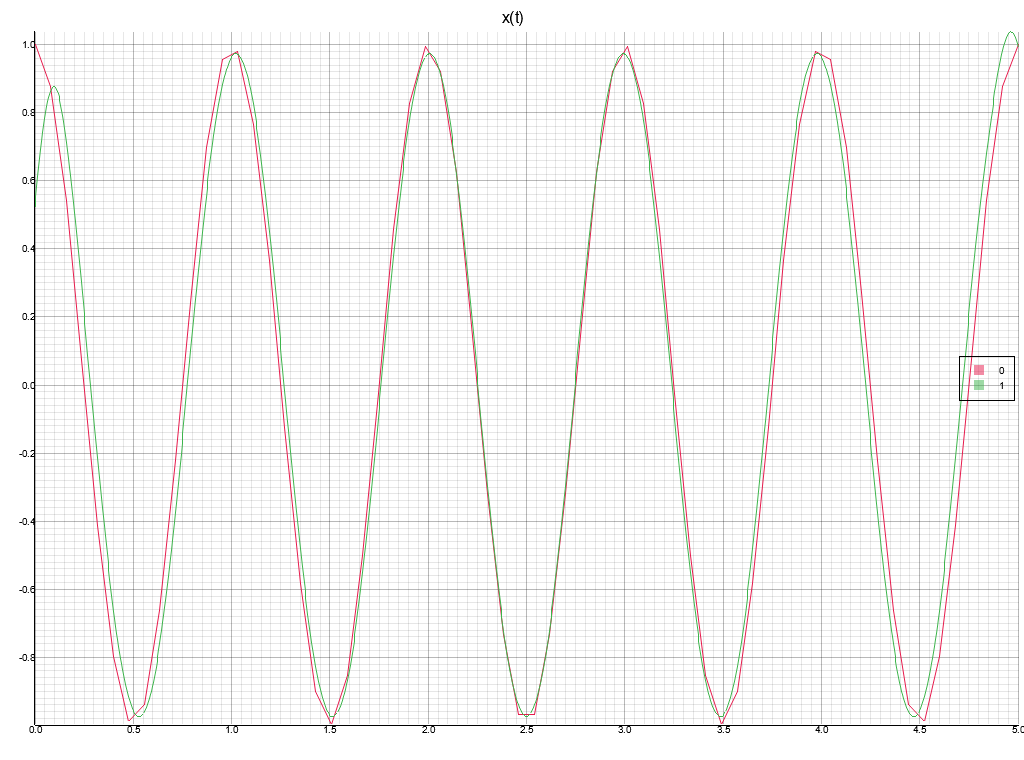
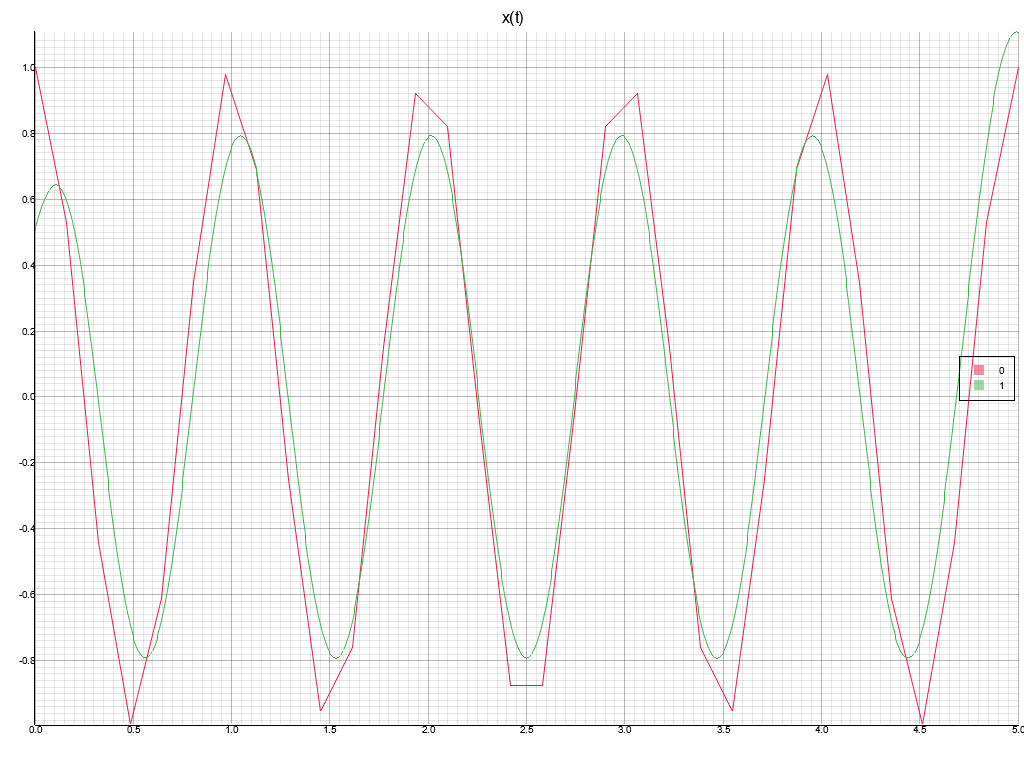
Update deps

Changed region(s): [[0.0, 0.0303, 1.0, 0.9684]]

diff --git a/src/operations/resample.rs b/src/operations/resample.rs
@@ -97,7 +97,7 @@ mod test
     #[test]
     fn test()
     {
-        const N: usize = 64;
+        const N: usize = 32;
         const M: usize = 1024;
         const T: f64 = 5.0;
         const F: f64 = 1.0;
